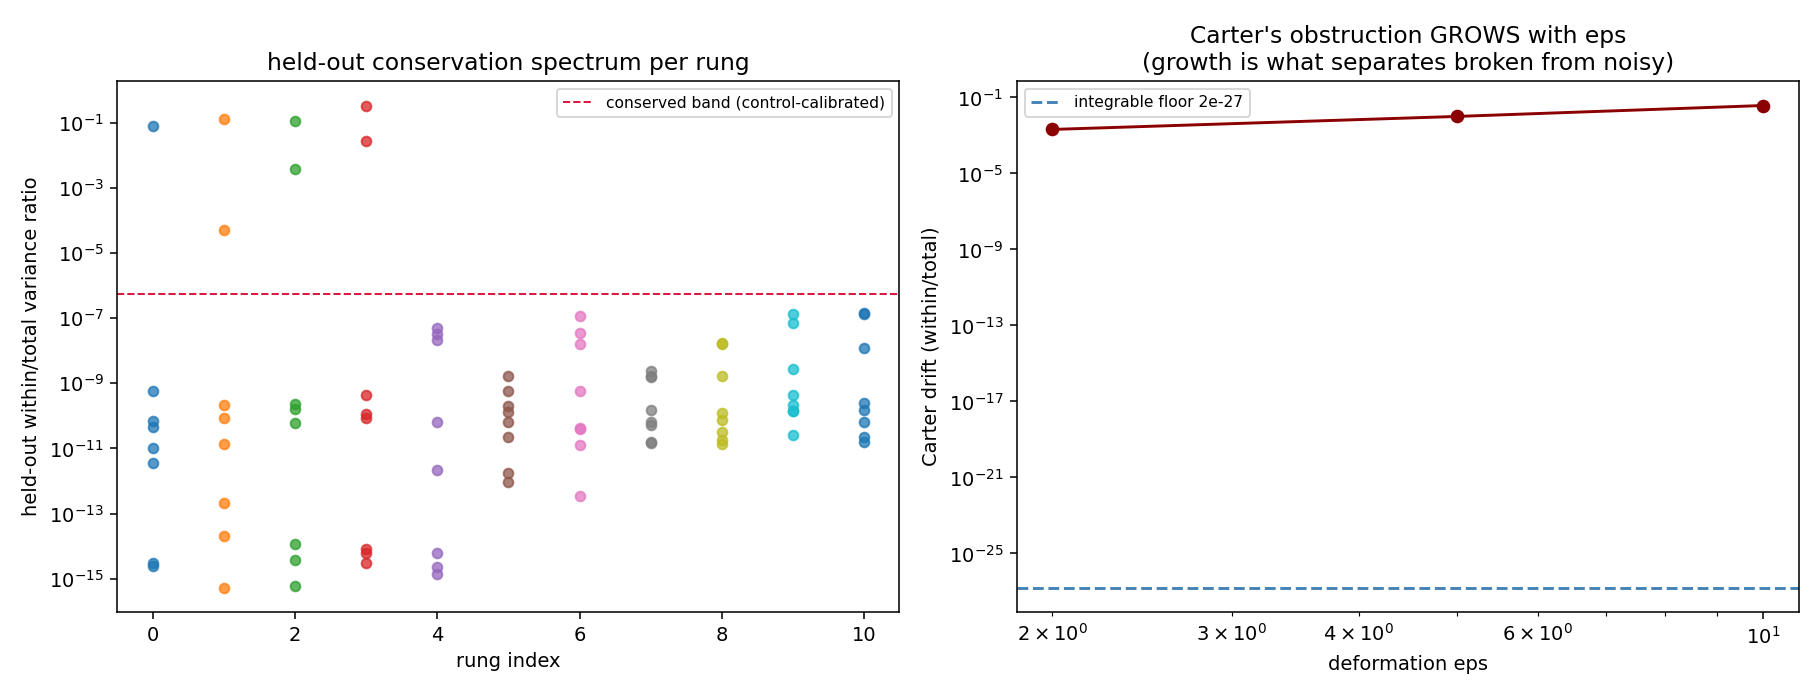
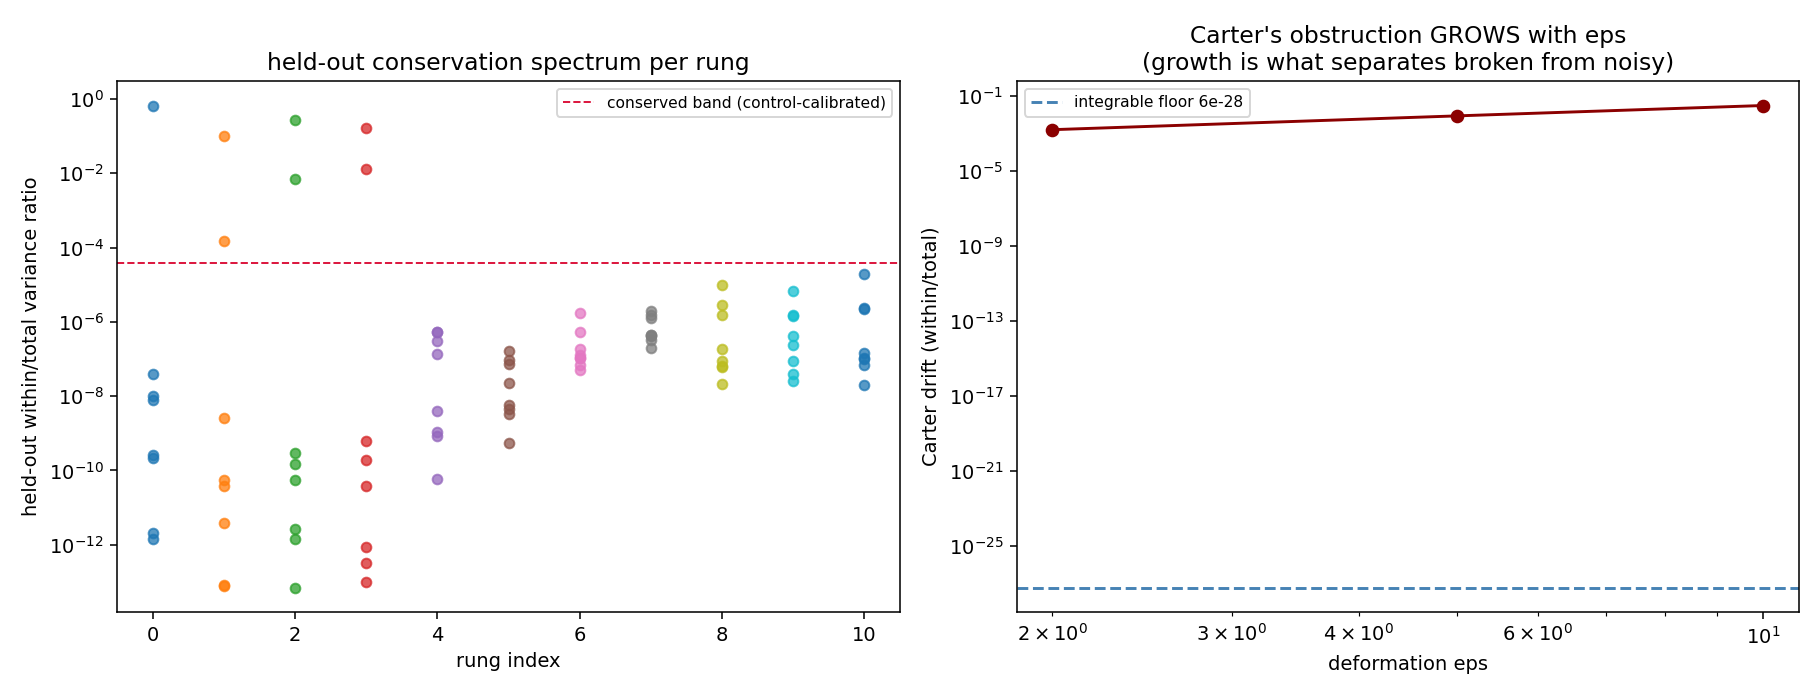
168: stop and revert the readout rebuild; record what it established
Four successive patches each fixing one artifact and exposing the next is the signal to
stop, so the readout rebuild is reverted to the committed state. Findings kept:

- Residual-spectrum separation (project conserved values off the reducibles) shows degree 2
  is the ONLY rung on this metric with separated structure: separation 2.8e5 vs 1.7, 1.2,
  1.1 at degrees 3-4. This exposes degree 4's earlier "control OK" as a FALSE PASS.
- Therefore the earlier hypothesis "the readout miscounts and the degree-3 physics is fine"
  is WITHDRAWN. At degree >= 3 there is no separated structure to count -- a third answer,
  distinct from both "coverage" and "miscount".
- Two traps caught: calibrating a cutoff between the first two singular values makes the
  control return 1 BY CONSTRUCTION (a control that cannot fail is not a control); and
  normalizing a spectrum by its own largest value makes "is anything here" unanswerable.

Also records the eps=10 scope finding: our radial cutoff holds orbits outside r~4 so our
max|bump-1| is 0.134, while ansatz's orbits reach r=2.00 where it is 1.25 -- larger than
the function it multiplies, sign-flipping g_tt. Same eps, different spacetime region,
which accounts for the 7.6x disagreement with neither side wrong. With the statistics
matched, the two harnesses agree to 7% at eps=2 and 2.4% at eps=5.

diff --git a/curvature/notes/p3_prereg_tabula_half.md b/curvature/notes/p3_prereg_tabula_half.md
@@ -252,3 +252,58 @@ G × P × p float64; the degree-4 cell at ntraj=2000 needs ~15 GB) **with buffer
 write, so every completed cell was lost**. A long detached run that only writes at the end is an all-or-nothing
 bet. Now: `python -u`, a per-cell memory guard that reports skipped cells rather than silently omitting them,
 and a flush after every cell.
+
+## Readout investigation (2026-08-16) — STOPPED and reverted, with what it found recorded
+
+168b showed degree 3 failing while degree 4 passed, so I tried to rebuild the irreducible-dimension readout. Four
+successive patches, each fixing one artifact and exposing the next, is the signal to stop rather than continue,
+so this was reverted to the committed state. What it established is worth keeping; what it did not, is not shipped.
+
+**Established.** Project the conserved per-trajectory values onto the orthogonal complement of the reducibles and
+look at whether the residual spectrum SEPARATES:
+
+    deg2 rat+metric   [1.0, 3.6e-6, 9.5e-7, ...]      separation 2.8e5   one clean direction (Carter)
+    deg3 rational     [1.0, 0.60, 0.49, 0.30]         separation 1.7     nothing stands out
+    deg3 rat+metric   [1.0, 0.86, 0.68, 2.2e-5]       separation 1.2     nothing stands out
+    deg4 rat+metric   [1.0, 0.94, 0.86, 0.73]         separation 1.1     nothing stands out
+
+**Degree 2 is the only rung on this metric with separated conserved structure.** This also exposes degree 4's
+earlier "control OK" as a FALSE PASS: the rank-difference statistic returned 1 while nothing actually stands out.
+So the earlier hypothesis — *"the readout is miscounting and the degree-3 physics is fine"* — is **not supported**
+and is withdrawn. At degree ≥ 3 there is no separated structure to count, which is a third answer, distinct from
+both "coverage" and "miscount".
+
+**Two traps caught inside the investigation, both worth more than the fix attempt.**
+- *A control that cannot fail is not a control.* Calibrating the cutoff as the geometric mean of the first two
+  singular values makes the control return exactly 1 **by construction**. It looked like four rungs passing; it
+  was arithmetic. The separation ratio above is the non-definitional replacement.
+- *A scale-free statistic cannot answer "is anything here".* Normalizing the spectrum by its own largest value
+  sets `spec[0] = 1` identically, so every deformed rung clears any cutoff and ESCALATES. The normalization that
+  makes rungs comparable is the same one that destroys the absolute question.
+
+**Recorded for whoever rebuilds this:** ansatz's advice, which is right — when no gap exists the readout should
+return **REFUSED**, not a number. The fallback's error was not the value it picked but that it answered at all.
+And their cheap test for the odd-degree hypothesis before rebuilding around it: compute per-column ensemble
+variance at degree 3 and check whether the odd-momentum columns are systematically smaller.
+
+## ε=10 is not perturbative for ansatz, and is for us (their scope error, our radial cutoff)
+
+They asked whether our orbits reach the region where their ε=10 stops being a perturbation. Measured:
+
+    eps      our r range        our max|bump-1|      theirs
+     0       [4.08, 11.91]         0.0000            —
+     2       [4.04, 11.50]         0.0299            0.0075
+     5       [4.09, 11.95]         0.0728            0.0453
+     10      [4.07, 11.26]         0.1336            1.2548   (their orbits reach r = 2.00)
+
+Our radial cutoff holds every orbit outside r ≈ 4, so at ε=10 our deformation peaks at 0.134 while theirs reaches
+1.25 — larger than the function it multiplies, sign-flipping g_tt. Same ε, different spacetime region. That
+accounts for the 7.6× disagreement at ε=10 with neither side being wrong, and it closes the question exactly as
+they predicted it would.
+
+**With the statistics matched** (they computed *our* variance-ratio statistic on *their* trajectories, restricted
+to the 10 orbits surviving at every ε): agreement **7% at ε=2 and 2.4% at ε=5**. Far stronger than the original
+side-by-side comparison, and it isolates the disagreement to the one non-perturbative point. Their ε=0 floor on
+our statistic is 2.87e-27 against our 1.48e-28 — same order, and both sweeps sit 1e23–1e26 above their floors, so
+neither side is measuring noise at weak coupling. **The value agreement is now established for ε = 2 and 5, and
+ε = 10 should be reported with its radial reach or dropped.**
